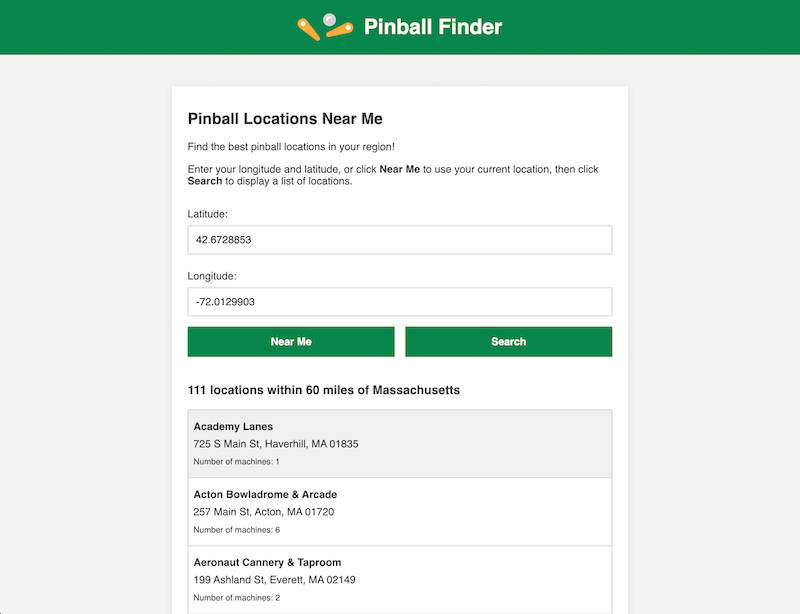
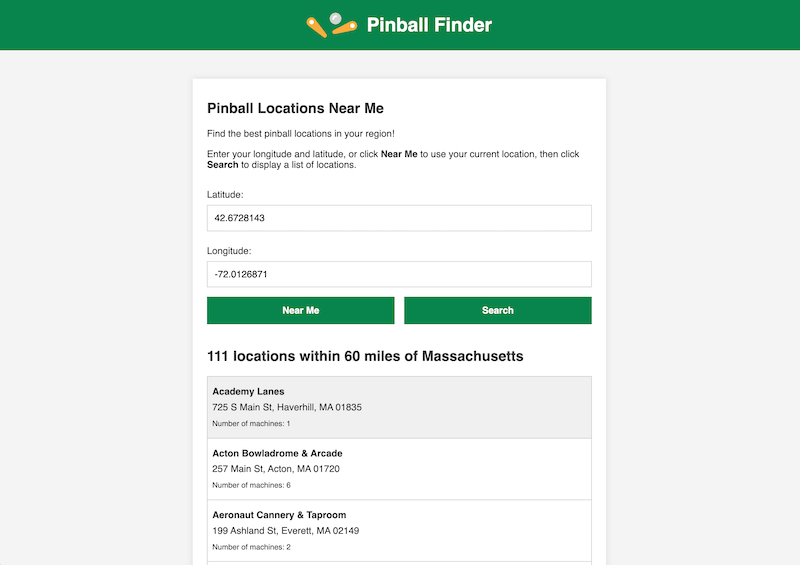
made location list header more visible

diff --git a/public/index.html b/public/index.html
@@ -60,7 +60,7 @@
 
       <!-- Locations -->
       <section id="locations">
-        <h3 id="locationsHeader"></h3>
+        <h2 id="locationsHeader"></h2>
         <ul id="locationsList"></ul>
       </section>
 
